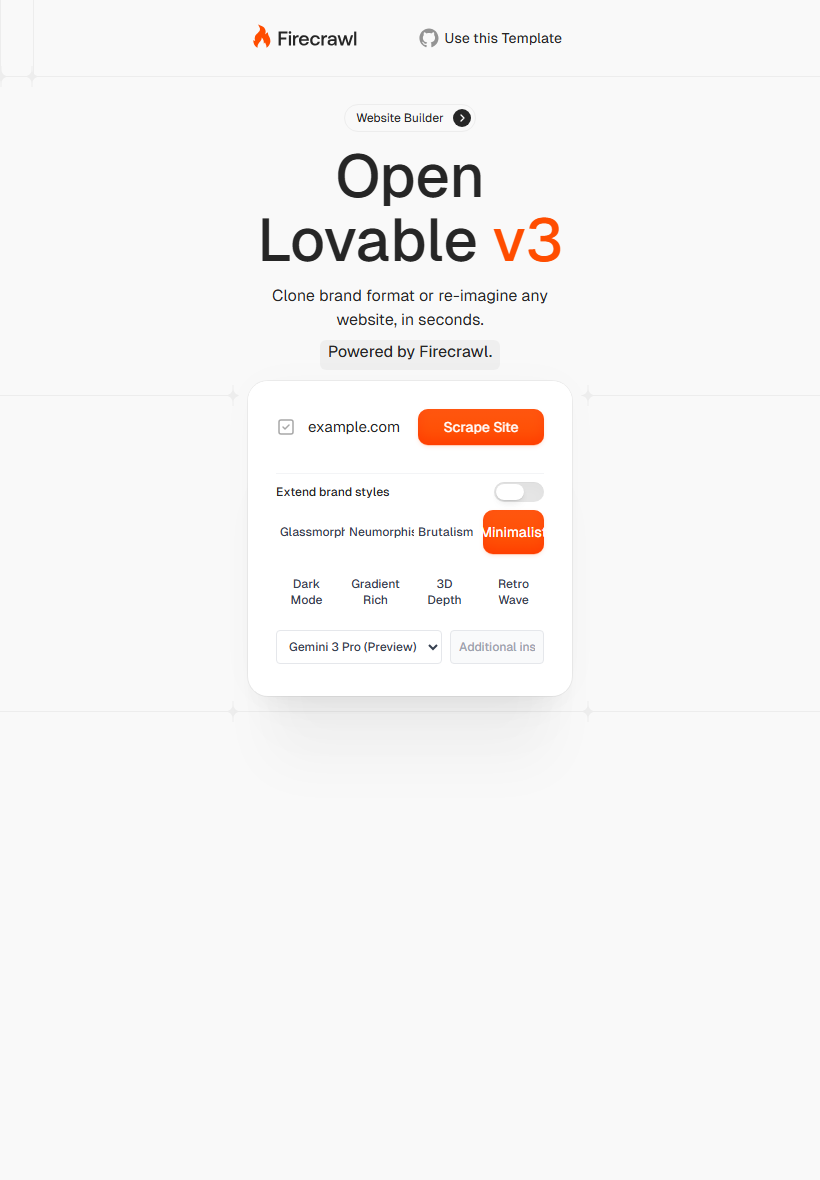
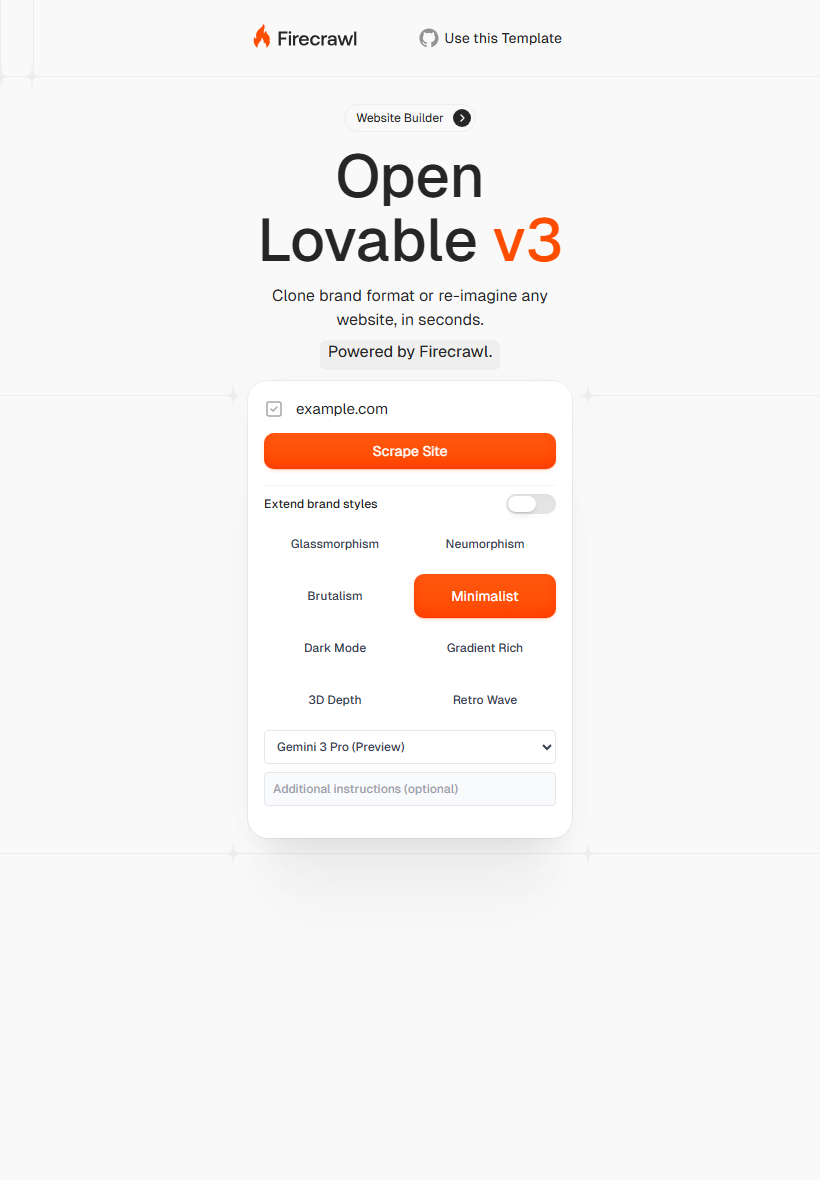
fix: align tablet form breakpoints and verify label visibility

Changed region(s): [[0.3049, 0.3356, 0.7012, 0.6712]]

diff --git a/app/page.tsx b/app/page.tsx
@@ -295,7 +295,7 @@ export default function HomePage() {
                   }}
                 >
 
-                <div className="p-16 sm:p-[28px] grid grid-cols-[20px_minmax(0,1fr)] sm:flex gap-12 items-center w-full relative bg-white rounded-20">
+                <div className="p-16 lg:p-[28px] grid grid-cols-[20px_minmax(0,1fr)] lg:flex gap-12 items-center w-full relative bg-white rounded-20">
                   {/* Show different UI when search results are displayed */}
                   {hasSearched && searchResults.length > 0 && !isFadingOut ? (
                     <>
@@ -413,7 +413,7 @@ export default function HomePage() {
                             handleSubmit();
                           }
                         }}
-                        className={`col-span-2 sm:col-auto [&>button]:w-full sm:[&>button]:w-auto ${isSearching ? 'pointer-events-none' : ''}`}
+                        className={`col-span-2 lg:col-auto [&>button]:w-full lg:[&>button]:w-auto ${isSearching ? 'pointer-events-none' : ''}`}
                       >
                         <HeroInputSubmitButton 
                           dirty={url.length > 0} 
@@ -429,7 +429,7 @@ export default function HomePage() {
                 <div className={`overflow-hidden transition-all duration-500 ease-in-out ${
                   isValidUrl ? 'max-h-[600px] opacity-100' : 'max-h-0 opacity-0'
                 }`}>
-                  <div className="px-16 sm:px-[28px] pt-0 pb-[28px]">
+                  <div className="px-16 lg:px-[28px] pt-0 pb-[28px]">
                     <div className="border-t border-gray-100 bg-white">
                       {/* Extend Brand Styles Toggle */}
                       <div className={`transition-all duration-300 transform ${
@@ -495,7 +495,7 @@ export default function HomePage() {
                         <div className={`mb-2 transition-all duration-300 transform ${
                           isValidUrl ? 'translate-y-0 opacity-100' : '-translate-y-2 opacity-0'
                         }`} style={{ transitionDelay: '100ms' }}>
-                          <div className="grid grid-cols-2 sm:grid-cols-4 gap-8">
+                          <div className="grid grid-cols-2 lg:grid-cols-4 gap-8">
                             {styles.map((style, index) => (
                               <button
                                 key={style.id}
@@ -527,7 +527,7 @@ export default function HomePage() {
                       )}
 
                       {/* Model Selector Dropdown and Additional Instructions */}
-                      <div className={`flex flex-col sm:flex-row items-stretch sm:items-center gap-8 mt-8 pb-4 transition-all duration-300 transform ${
+                      <div className={`flex flex-col lg:flex-row items-stretch lg:items-center gap-8 mt-8 pb-4 transition-all duration-300 transform ${
                         isValidUrl ? 'translate-y-0 opacity-100' : '-translate-y-2 opacity-0'
                       }`} style={{ transitionDelay: '400ms' }}>
                         {/* Model Dropdown */}
@@ -535,7 +535,7 @@ export default function HomePage() {
                           aria-label="AI model"
                           value={selectedModel}
                           onChange={(e) => setSelectedModel(e.target.value)}
-                          className={`w-full sm:w-auto min-w-0 px-8 py-8 text-xs font-medium text-gray-700 bg-white rounded border border-gray-200 focus:border-orange-500 focus:outline-none focus:ring-1 focus:ring-orange-500 ${extendBrandStyles ? 'flex-1' : ''}`}
+                          className={`w-full lg:w-auto min-w-0 px-8 py-8 text-xs font-medium text-gray-700 bg-white rounded border border-gray-200 focus:border-orange-500 focus:outline-none focus:ring-1 focus:ring-orange-500 ${extendBrandStyles ? 'flex-1' : ''}`}
                         >
                           {models.map((model) => (
                             <option key={model.id} value={model.id}>
@@ -549,7 +549,7 @@ export default function HomePage() {
                           <input
                             type="text"
                             aria-label="Additional instructions"
-                            className="min-w-0 w-full sm:w-auto flex-1 px-8 py-8 text-xs font-medium text-gray-700 bg-gray-50 rounded border border-gray-200 focus:border-orange-500 focus:outline-none focus:ring-1 focus:ring-orange-500 placeholder:text-gray-400"
+                            className="min-w-0 w-full lg:w-auto flex-1 px-8 py-8 text-xs font-medium text-gray-700 bg-gray-50 rounded border border-gray-200 focus:border-orange-500 focus:outline-none focus:ring-1 focus:ring-orange-500 placeholder:text-gray-400"
                             placeholder="Additional instructions (optional)"
                             onChange={(e) => sessionStorage.setItem('additionalInstructions', e.target.value)}
                           />

diff --git a/tests/e2e/smoke.spec.ts b/tests/e2e/smoke.spec.ts
@@ -27,6 +27,17 @@ for(const [name,width,height] of [['desktop',1440,900],['tablet',820,1180],['mob
     await expect(page.getByPlaceholder("Describe the new functionality you want to build using this brand's styles...")).toBeVisible();
     await toggle.click();
     await expect(minimalist).toBeVisible();
+    for (const name of ['Glassmorphism', 'Neumorphism', 'Minimalist']) {
+      const button = page.getByRole('button', { name, exact: true });
+      const labelFits = await button.evaluate(element => {
+        const label = element.querySelector('span');
+        if (!label) return false;
+        const buttonBounds = element.getBoundingClientRect();
+        const labelBounds = label.getBoundingClientRect();
+        return labelBounds.left >= buttonBounds.left - 1 && labelBounds.right <= buttonBounds.right + 1;
+      });
+      expect(labelFits, `${name} must fit inside its button`).toBe(true);
+    }
     // Editing the form only: no paid scraping, AI generation or sandbox creation.
     await page.screenshot({path:testInfo.outputPath(`${name}.png`),fullPage:true});
     expect(await page.evaluate(()=>document.documentElement.scrollWidth<=window.innerWidth+2)).toBe(true);

diff --git a/docs/verification-security-foundation.md b/docs/verification-security-foundation.md
@@ -2,7 +2,7 @@
 
 Baseline: `69bd93bae7a9c97ef989eb70aabe6797fb3dac89`.
 Branch: `fix/security-foundation-20260922`.
-Local verification: `2026-09-22T23:11:18.3361109-03:00`; Windows, Node `v24.16.0`.
+Local verification: `2026-09-22T23:21:20.0331222-03:00`; Windows, Node `v24.16.0`.
 
 ## Results
 
@@ -41,7 +41,7 @@ was added. The anonymous check now uses native fetch without credential inherita
 The URL field, submit-action geometry, style selection, additional instructions,
 model selector and brand-extension switch were exercised without submitting scraping
 or generation requests. Desktop and mobile screenshots were inspected manually.
-Tablet geometry and interaction were also verified by Playwright.
+Tablet screenshots were also inspected manually after the final breakpoint correction.
 
 ![Desktop](verification/desktop.png)
 ![Tablet](verification/tablet.png)
@@ -73,6 +73,14 @@ and credentials are not committed.
 | Log | SHA-256 |
 |---|---|
[6 lines of base64/hex data omitted]
+
+## Tablet follow-up
+
+Manual inspection found clipped labels in the narrow tablet form. The label-boundary
+regression failed before the fix. Inner responsive breakpoints now follow the outer
+container's `lg` transition rather than the viewport's `sm` transition. The same
+24 unit/API/integration tests and five browser tests passed after the correction.
+The updated tablet screenshot was inspected and confirms the labels and controls fit.

diff --git a/docs/security-foundation-plan.md b/docs/security-foundation-plan.md
@@ -57,3 +57,8 @@ across untrusted users. A password is not a multitenancy implementation.
   Public origins now require operator credentials even in development.
 - Explicit package versions could be incorrectly skipped when any version was already present.
   Explicit versions/tags now go through npm resolution; failed installation completion remains a failure.
+
+- Final tablet screenshot inspection found that the form remained narrow until `lg`,
+  while its inner controls switched to horizontal layouts at `sm`. A new label-boundary
+  assertion reproduced the clipping. Inner breakpoints now align with the existing
+  container's `lg` transition; labels remain visible without hiding overflow.
